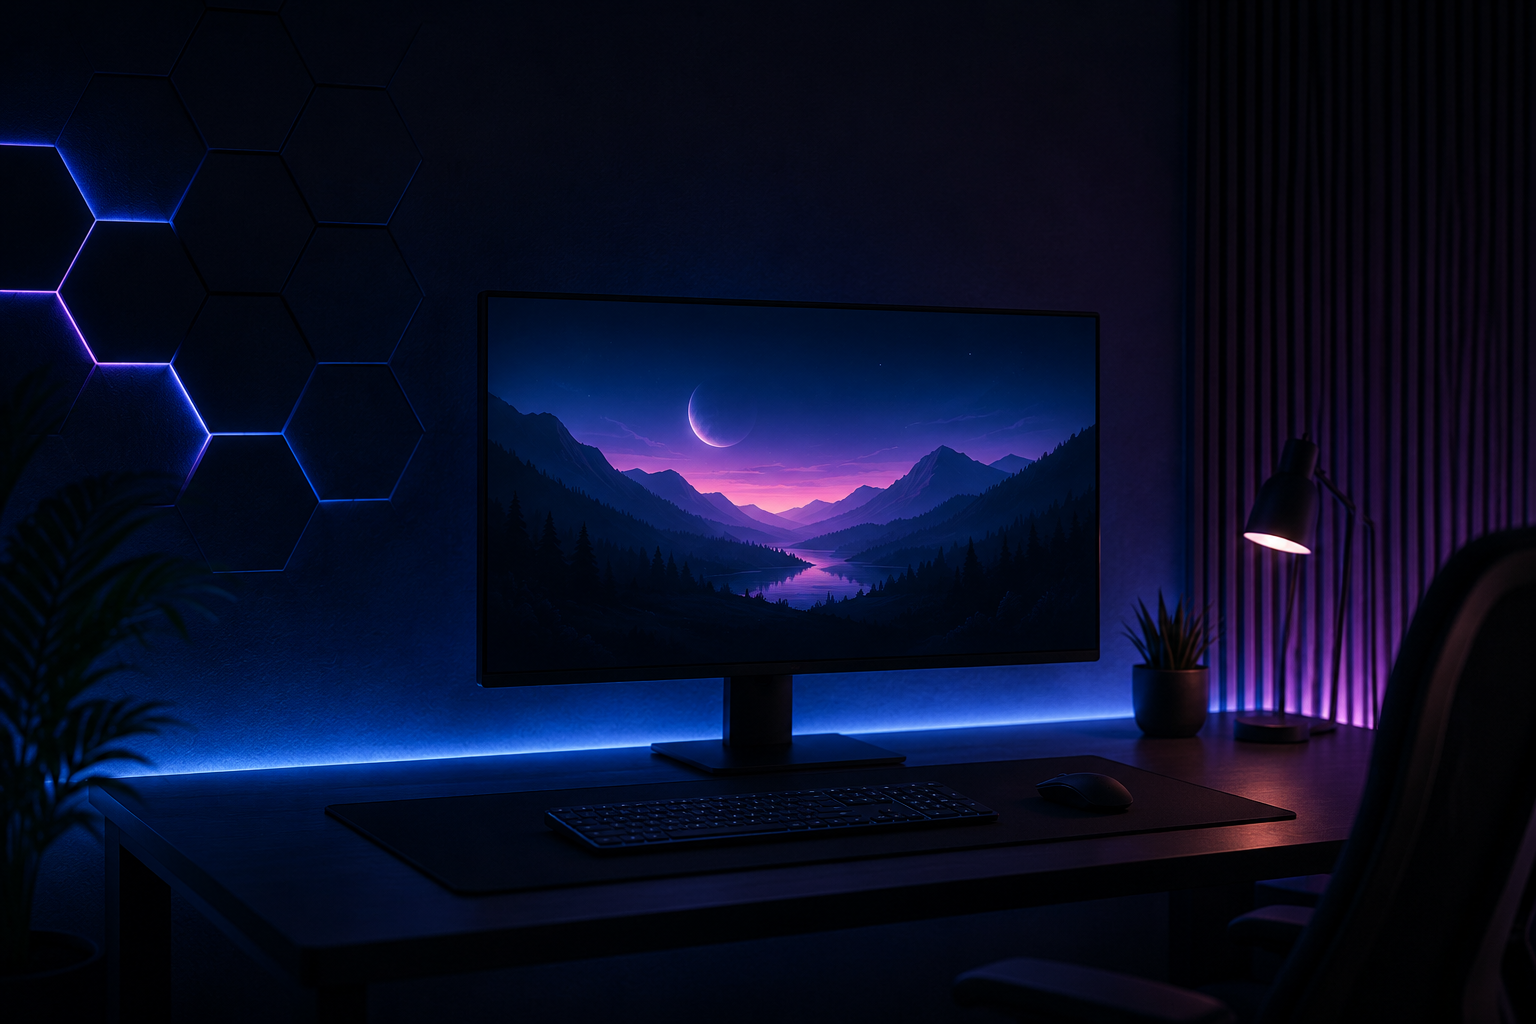
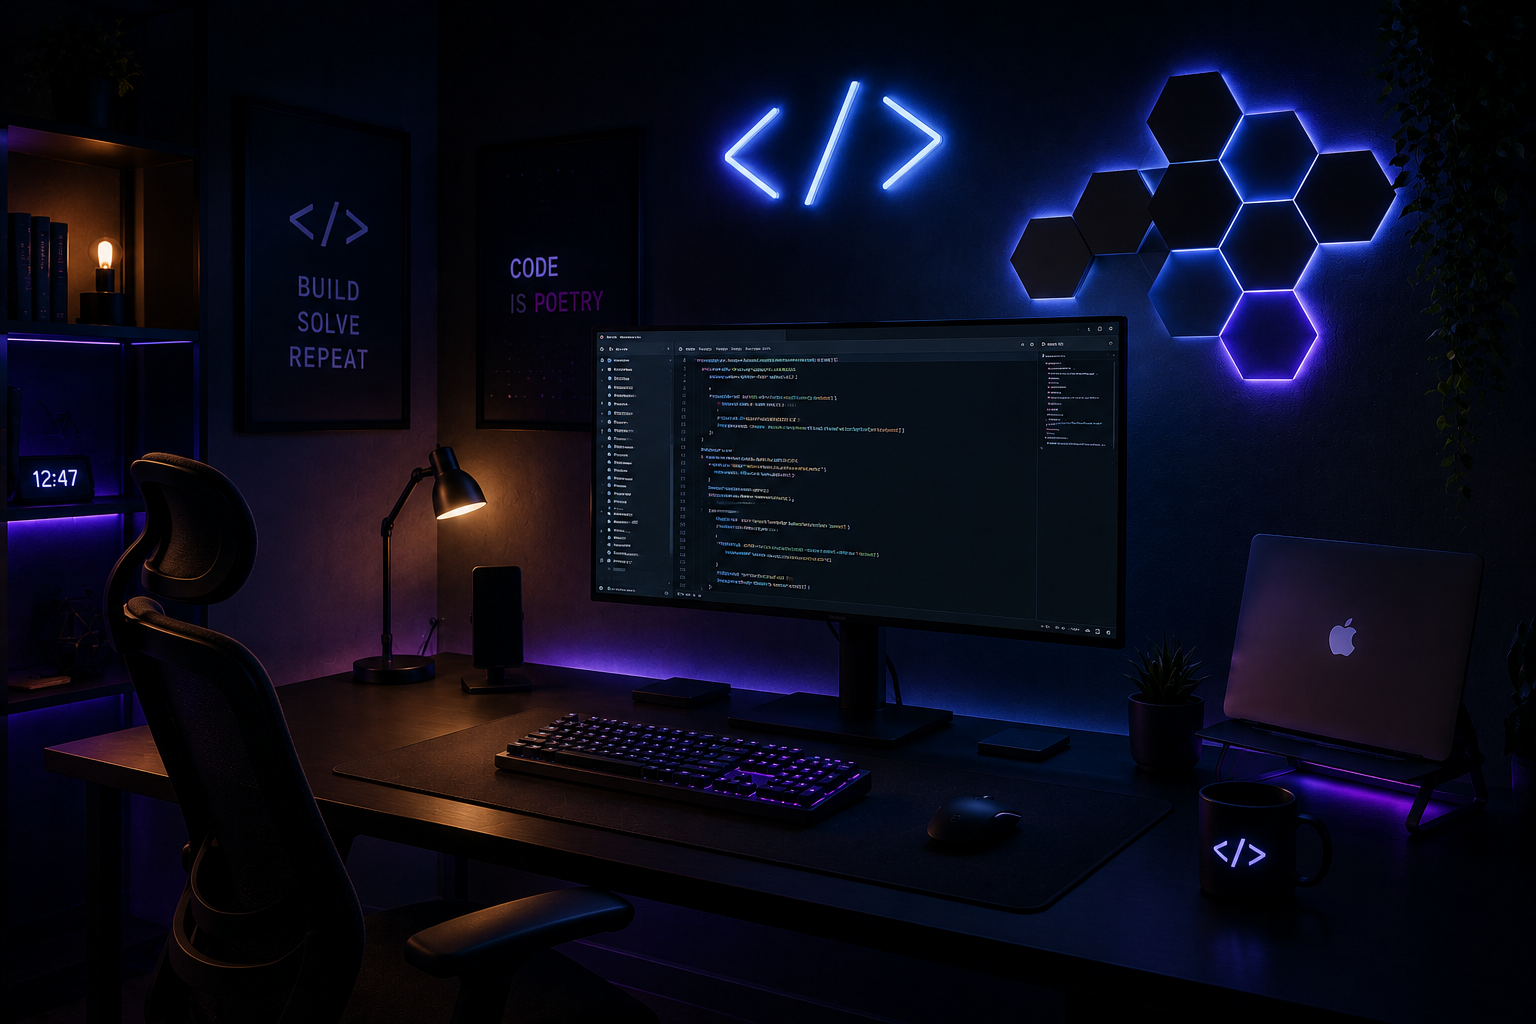
Add files via upload

diff --git a/index.css b/index.css
@@ -211,11 +211,6 @@ header
     text-align: right;
 }
 
-
-
-
-
-
 .text .btn
 {
     background-color: blue;